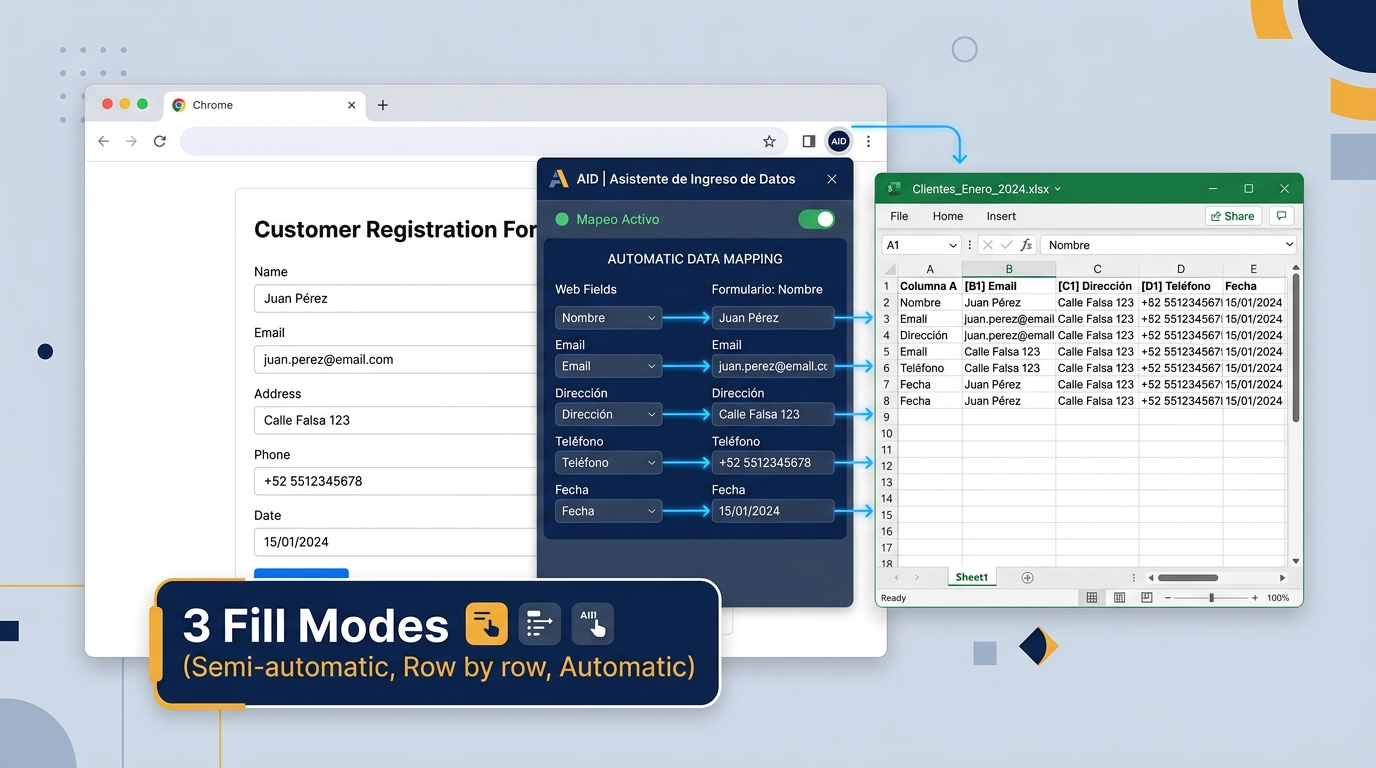
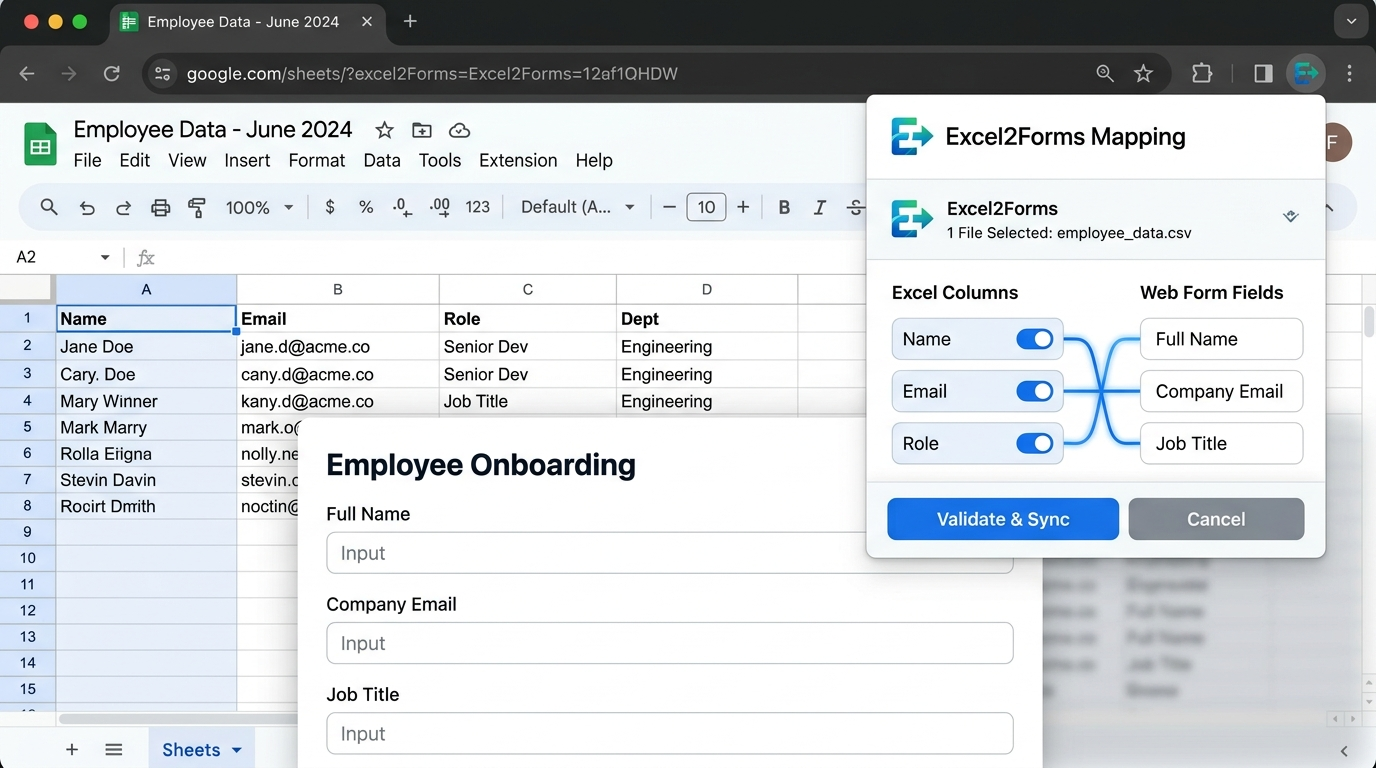
AJUSTE EXCEL

diff --git a/excel2forms.html b/excel2forms.html
@@ -4,22 +4,21 @@
     <meta charset="UTF-8">
     <meta name="viewport" content="width=device-width, initial-scale=1.0">
     <title>Llenar Formularios Web desde Excel — Extensión Chrome | Excel2Forms</title>
-    <meta name="description" content="Aprende a llenar formularios web desde Excel o CSV automáticamente. Extensión de Chrome para autollenar campos web sin copiar y pegar. 100% local y segura.">
-    <meta name="keywords" content="llenar formularios web desde excel, autollenar formulario chrome, subir datos de excel a una web, extension chrome para formularios, automatizar formularios excel">
+    <meta name="description" content="Aprende a llenar formularios web desde Excel o CSV automáticamente. Extensión de Chrome para autollenar campos web sin copiar y pegar. Procesamiento local.">
     <link rel="canonical" href="https://johnnytechtools.vercel.app/excel2forms">
     
     <!-- Open Graph -->
     <meta property="og:type" content="website">
     <meta property="og:url" content="https://johnnytechtools.vercel.app/excel2forms">
     <meta property="og:title" content="Llenar Formularios Web desde Excel — Extensión Chrome | Excel2Forms">
-    <meta property="og:description" content="Automatiza el llenado y envío de formularios web con datos de hojas de cálculo Excel o CSV. Sin programación y 100% offline.">
+    <meta property="og:description" content="Automatiza el llenado y envío de formularios web con datos de hojas de cálculo Excel o CSV. Sin programación y procesamiento en tu navegador.">
     <meta property="og:image" content="https://johnnytechtools.vercel.app/assets/og-excel2forms.png">
 
     <!-- Twitter -->
     <meta name="twitter:card" content="summary_large_image">
     <meta name="twitter:url" content="https://johnnytechtools.vercel.app/excel2forms">
     <meta name="twitter:title" content="Llenar Formularios Web desde Excel — Extensión Chrome | Excel2Forms">
-    <meta name="twitter:description" content="Automatiza el llenado y envío de formularios web con datos de hojas de cálculo Excel o CSV. Sin programación y 100% offline.">
+    <meta name="twitter:description" content="Automatiza el llenado y envío de formularios web con datos de hojas de cálculo Excel o CSV.">
     <meta name="twitter:image" content="https://johnnytechtools.vercel.app/assets/og-excel2forms.png">
 
     <!-- Schema JSON-LD SoftwareApplication -->
@@ -35,7 +34,7 @@
         "price": "0",
         "priceCurrency": "USD"
       },
-      "description": "Extensión de Google Chrome para autollenar y enviar formularios web desde archivos Excel (.xlsx) y CSV con vinculación automática de campos.",
+      "description": "Extensión de Google Chrome para autollenar y enviar formularios web desde archivos Excel (.xlsx) y CSV con vinculación de campos.",
       "url": "https://johnnytechtools.vercel.app/excel2forms"
     }
     </script>
@@ -51,23 +50,15 @@
           "name": "¿Cómo detecta Excel2Forms las casillas de un formulario web?",
           "acceptedAnswer": {
             "@type": "Answer",
-            "text": "Al pulsar 'Detectar Campos', la extensión analiza la estructura HTML de la página web activa, identificando etiquetas <input>, <select>, <textarea> y radios para que puedas asociar cada columna de tu Excel con el elemento correspondiente mediante menús desplegables."
+            "text": "Al pulsar 'Detectar Campos', la extensión analiza los elementos de entrada comunes del formulario (<input>, <select>, <textarea>) en la pestaña activa para que puedas asociar cada columna de tu archivo con la casilla correspondiente."
           }
         },
         {
           "@type": "Question",
-          "name": "¿Qué formatos de archivo soporta?",
+          "name": "¿Funciona con formularios de múltiples pasos o páginas?",
           "acceptedAnswer": {
             "@type": "Answer",
-            "text": "Excel2Forms es compatible con archivos de hojas de cálculo modernas de Microsoft Excel (.xlsx) y archivos delimitados por comas (.csv)."
-          }
-        },
-        {
-          "@type": "Question",
-          "name": "¿Qué ocurre si un registro falla durante el envío automático?",
-          "acceptedAnswer": {
-            "@type": "Answer",
-            "text": "La extensión registra el estado de cada fila enviada. Al finalizar el lote, puedes descargar un reporte detallado en CSV que indica cuáles registros se enviaron con éxito y cuáles tuvieron alguna advertencia o error."
+            "text": "Esta versión está optimizada para formularios web directos de una sola página. No cubre bien flujos de varios pasos con validaciones intermedias o recargas de página complejas; estamos trabajando en una solución para esos casos."
           }
         },
         {
@@ -75,7 +66,15 @@
           "name": "¿Mis datos se guardan o envían a algún servidor?",
           "acceptedAnswer": {
             "@type": "Answer",
-            "text": "No. Excel2Forms procesa tus archivos exclusivamente en la memoria local de tu navegador. Ninguna fila, dato personal o valor de tu hoja de cálculo sale de tu equipo."
+            "text": "Excel2Forms lee tu archivo en tu navegador y no lo envía a nuestros servidores ni a terceros. Los datos solo salen hacia el formulario web que tú elijas completar, igual que si los escribieras a mano. Ese sitio los trata según su propia política de privacidad."
+          }
+        },
+        {
+          "@type": "Question",
+          "name": "¿Qué formatos de archivo soporta?",
+          "acceptedAnswer": {
+            "@type": "Answer",
+            "text": "Excel2Forms es compatible con hojas de cálculo de Microsoft Excel (.xlsx) y archivos delimitados por comas (.csv)."
           }
         }
       ]
@@ -113,7 +112,7 @@
             </nav>
 
             <div class="flex items-center gap-3">
-                <a href="https://chromewebstore.google.com/detail/excel2forms-web-form-auto/akpoionmboejidpnolfehdjfeopmibla?authuser=4&hl=es-419" target="_blank" rel="noopener noreferrer" class="bg-blue-600 hover:bg-blue-700 text-white text-xs md:text-sm font-semibold px-4 py-2 rounded-lg shadow-sm transition-all" onclick="if(window.va) va('event', { name: 'cta_e2f_header_cws' });">
+                <a href="https://chromewebstore.google.com/detail/excel2forms-web-form-auto/akpoionmboejidpnolfehdjfeopmibla" target="_blank" rel="noopener noreferrer" class="bg-blue-600 hover:bg-blue-700 text-white text-xs md:text-sm font-semibold px-4 py-2 rounded-lg shadow-sm transition-all" onclick="if(window.va) va('event', { name: 'cta_e2f_header_cws' });">
                     Añadir a Chrome
                 </a>
             </div>
@@ -131,17 +130,16 @@
 
             <!-- H1 Principal enfocado en Search Intent -->
             <h1 class="text-3xl sm:text-5xl font-extrabold tracking-tight text-slate-900 mb-6 leading-tight max-w-4xl mx-auto">
-                Cómo llenar formularios web desde Excel de forma automática y segura
+                Cómo llenar formularios web desde Excel de forma automática y sencilla
             </h1>
 
             <p class="text-lg md:text-xl text-slate-600 max-w-3xl mx-auto mb-8 leading-relaxed">
-                Si necesitas <strong>subir datos de Excel a una web</strong> o autollenar formularios repetitivos fila por fila, <strong>Excel2Forms</strong> se integra en tu navegador Google Chrome para mapear columnas y automatizar los envíos sin escribir una sola línea de código.
+                Si necesitas <strong>subir datos de Excel a una web</strong> o autollenar formularios repetitivos, <strong>Excel2Forms</strong> se integra en Google Chrome para vincular columnas con las casillas del formulario y automatizar los envíos directamente en tu navegador.
             </p>
 
             <div class="flex flex-col sm:flex-row gap-4 justify-center items-center">
-                <a href="https://chromewebstore.google.com/detail/excel2forms-web-form-auto/akpoionmboejidpnolfehdjfeopmibla?authuser=4&hl=es-419" target="_blank" rel="noopener noreferrer" class="w-full sm:w-auto bg-blue-600 hover:bg-blue-700 text-white font-bold text-base md:text-lg px-8 py-4 rounded-xl shadow-lg transition-all transform hover:-translate-y-0.5 text-center flex items-center justify-center gap-2" onclick="if(window.va) va('event', { name: 'cta_hero_cws_excel2forms' });">
+                <a href="https://chromewebstore.google.com/detail/excel2forms-web-form-auto/akpoionmboejidpnolfehdjfeopmibla" target="_blank" rel="noopener noreferrer" class="w-full sm:w-auto bg-blue-600 hover:bg-blue-700 text-white font-bold text-base md:text-lg px-8 py-4 rounded-xl shadow-lg transition-all transform hover:-translate-y-0.5 text-center flex items-center justify-center gap-2" onclick="if(window.va) va('event', { name: 'cta_hero_cws_excel2forms' });">
                     <span>Añadir a Chrome — Pruébalo gratis</span>
-                    <span class="text-xs bg-blue-500 px-2 py-0.5 rounded">Store</span>
                 </a>
                 <a href="#video-demo" class="w-full sm:w-auto bg-white border-2 border-slate-200 hover:border-red-400 text-slate-700 font-semibold text-base md:text-lg px-6 py-3.5 rounded-xl transition-colors text-center flex items-center justify-center gap-2">
                     <svg class="w-5 h-5 text-red-500" fill="currentColor" viewBox="0 0 24 24" aria-hidden="true"><path d="M23.5 6.2a3 3 0 0 0-2.1-2.1C19.5 3.5 12 3.5 12 3.5s-7.5 0-9.4.6A3 3 0 0 0 .5 6.2 31.5 31.5 0 0 0 0 12a31.5 31.5 0 0 0 .5 5.8 3 3 0 0 0 2.1 2.1c1.9.6 9.4.6 9.4.6s7.5 0 9.4-.6a3 3 0 0 0 2.1-2.1A31.5 31.5 0 0 0 24 12a31.5 31.5 0 0 0-.5-5.8zM9.5 15.6V8.4l6.3 3.6-6.3 3.6z"/></svg>
@@ -156,7 +154,23 @@
             </div>
         </section>
 
-        <!-- 2. DEMO EN VIDEO EMBEBIDA -->
+        <!-- 2. CAPTURA VISUAL REAL DEL FLUJO DE TRABAJO -->
+        <section class="max-w-4xl mx-auto px-6 py-6">
+            <div class="bg-white p-4 rounded-3xl border border-slate-200 shadow-md">
+                <img 
+                    src="/assets/og-excel2forms.png" 
+                    alt="Mapeo visual de columnas de Excel a campos de formulario web con Excel2Forms" 
+                    width="1200" 
+                    height="675" 
+                    class="w-full h-auto rounded-2xl border border-slate-100 object-cover"
+                    loading="lazy">
+                <p class="text-xs text-slate-500 text-center mt-3">
+                    Vinculación visual: asocia cada columna de tu hoja de cálculo con la casilla correspondiente en la página web abierta.
+                </p>
+            </div>
+        </section>
+
+        <!-- 3. DEMO EN VIDEO EMBEBIDA (YOUTUBE-NOCOOKIE) -->
         <section id="video-demo" class="max-w-4xl mx-auto px-6 py-12">
             <div class="text-center mb-6">
                 <span class="text-blue-600 font-semibold text-xs uppercase tracking-wider">Demostración en vivo</span>
@@ -176,7 +190,7 @@
             </div>
         </section>
 
-        <!-- 3. GUÍA PASO A PASO -->
+        <!-- 4. GUÍA PASO A PASO -->
         <section class="bg-white border-y border-slate-200 py-16">
             <div class="max-w-5xl mx-auto px-6">
                 <div class="text-center max-w-2xl mx-auto mb-12">
@@ -191,10 +205,10 @@
                         <div class="w-10 h-10 bg-blue-600 text-white font-bold rounded-xl flex items-center justify-center mb-4 text-lg shadow-sm">1</div>
                         <h3 class="text-lg font-bold text-slate-900 mb-2">Carga tu archivo Excel o CSV</h3>
                         <p class="text-slate-600 text-sm leading-relaxed mb-4">
-                            Abre la ventana de la extensión y selecciona tu hoja de cálculo (.xlsx o .csv). Excel2Forms lee al instante los encabezados de tus columnas respetando caracteres especiales y acentos.
+                            Abre la ventana de la extensión y selecciona tu hoja de cálculo (.xlsx o .csv). Excel2Forms lee los encabezados de tus columnas en tu navegador.
                         </p>
                         <span class="text-xs font-semibold text-slate-500 bg-white px-2 py-1 rounded border border-slate-200">
-                            Procesamiento 100% en tu memoria
+                            Procesamiento local en tu navegador
                         </span>
                     </div>
 
@@ -213,73 +227,83 @@
                     <!-- Paso 3 -->
                     <div class="bg-slate-50 p-8 rounded-2xl border border-slate-200 relative">
                         <div class="w-10 h-10 bg-blue-600 text-white font-bold rounded-xl flex items-center justify-center mb-4 text-lg shadow-sm">3</div>
-                        <h3 class="text-lg font-bold text-slate-900 mb-2">Ejecuta el autollenado y descarga el reporte</h3>
+                        <h3 class="text-lg font-bold text-slate-900 mb-2">Ejecuta y descarga el reporte</h3>
                         <p class="text-slate-600 text-sm leading-relaxed mb-4">
-                            Selecciona si deseas avance automático o confirmación paso a paso. La extensión rellena y envía cada registro. Al culminar, puedes descargar un archivo CSV que certifica los resultados.
+                            Selecciona si deseas avance automático o confirmación paso a paso. La extensión completa los campos y envía el formulario. Al finalizar, puedes descargar un reporte CSV con el resultado de cada registro.
                         </p>
                         <span class="text-xs font-semibold text-slate-500 bg-white px-2 py-1 rounded border border-slate-200">
-                            Trazabilidad y control total
+                            Puedes revisar cada registro
                         </span>
                     </div>
                 </div>
             </div>
         </section>
 
-        <!-- 4. DIFERENCIADOR CLAVE FRENTE A AID -->
-        <section class="max-w-5xl mx-auto px-6 py-16">
-            <div class="bg-slate-900 text-white rounded-3xl p-8 md:p-12 shadow-xl">
-                <div class="max-w-3xl">
-                    <span class="text-blue-400 font-bold text-xs uppercase tracking-wider">Claridad de Solución</span>
-                    <h2 class="text-2xl md:text-3xl font-extrabold mt-1 mb-4">¿Cuándo elegir Excel2Forms frente a AID?</h2>
-                    <p class="text-slate-300 text-sm md:text-base leading-relaxed mb-6">
-                        <strong>Excel2Forms</strong> es la opción indicada cuando trabajas con formularios estándar del día a día (Google Forms, encuestas web, registros de eventos, CRM sencillos o plataformas de inscripción) donde buscas un flujo ágil: cargar la hoja, mapear visualmente en un clic y dejar que el script complete y envíe el lote.
-                    </p>
-                    <p class="text-slate-300 text-sm md:text-base leading-relaxed mb-6">
-                        Si en cambio operas con sistemas cerrados institucionales, portales gubernamentales lentos o trámites donde cada registro exige validación previa humana fila por fila, revisa nuestra herramienta hermana <a href="/aid" class="text-amber-400 underline hover:text-amber-300 font-semibold">AID (Asistente de Ingreso de Datos)</a>.
-                    </p>
-                    <a href="https://chromewebstore.google.com/detail/excel2forms-web-form-auto/akpoionmboejidpnolfehdjfeopmibla?authuser=4&hl=es-419" target="_blank" rel="noopener noreferrer" class="inline-block bg-blue-600 hover:bg-blue-700 text-white font-semibold px-6 py-3 rounded-xl transition-colors text-sm">
-                        Instalar Excel2Forms en Chrome
-                    </a>
+        <!-- 5. QUÉ NO HACE (LIMITACIONES REALES PARA CONFIANZA) -->
+        <section class="max-w-4xl mx-auto px-6 py-12">
+            <div class="bg-slate-100 border border-slate-300 rounded-3xl p-8">
+                <div class="flex items-start gap-4">
+                    <div class="text-3xl text-slate-700">ℹ</div>
+                    <div>
+                        <h2 class="text-xl font-bold text-slate-900 mb-2">Alcance y limitaciones técnicas (Qué NO hace)</h2>
+                        <p class="text-slate-600 text-sm leading-relaxed mb-4">
+                            Para mantener expectativas claras y evitar malas experiencias al usar la herramienta en formularios complejos, ten en cuenta:
+                        </p>
+                        <ul class="text-xs text-slate-700 space-y-2 list-disc pl-5">
+                            <li><strong>No resuelve CAPTCHAs:</strong> Si el formulario receptor incluye Cloudflare, reCAPTCHA o validaciones antibot, la verificación humana debe completarse manualmente.</li>
+                            <li><strong>Formularios dentro de iframes externos:</strong> Por políticas de seguridad del navegador, formularios incrustados desde otros dominios pueden requerir abrirse en su pestaña original.</li>
+                            <li><strong>Recargas completas de página:</strong> Si el formulario recarga la página por completo tras cada envío sin conservar el estado, la extensión requerirá reiniciar el proceso para el siguiente registro.</li>
+                            <li><strong>Flujos de múltiples pasos con lógica condicional pesada:</strong> Formularios que cambian dinámicamente de estructura según la opción seleccionada pueden requerir supervisión manual.</li>
+                        </ul>
+                    </div>
                 </div>
             </div>
         </section>
 
-        <!-- 5. CASOS DE USO REALES -->
+        <!-- 6. CASOS DE USO REALES Y AVISO CONTRA SPAM -->
         <section class="max-w-5xl mx-auto px-6 py-12">
             <div class="text-center mb-12">
                 <span class="text-blue-600 font-semibold text-xs uppercase tracking-wider">Aplicaciones Prácticas</span>
                 <h2 class="text-3xl font-extrabold text-slate-900 mt-1 mb-3">¿Para qué tareas se utiliza Excel2Forms?</h2>
-                <p class="text-slate-600 text-sm md:text-base max-w-2xl mx-auto">Elimina la carga de trabajo manual en múltiples sectores profesionales.</p>
+                <p class="text-slate-600 text-sm md:text-base max-w-2xl mx-auto">Elimina la carga de trabajo manual en tareas administrativas cotidianas.</p>
             </div>
 
-            <div class="grid md:grid-cols-3 gap-6">
+            <div class="grid md:grid-cols-3 gap-6 mb-8">
                 <div class="bg-white p-6 rounded-2xl border border-slate-200">
                     <div class="text-3xl mb-3">🎓</div>
                     <h3 class="font-bold text-slate-900 mb-2">Inscripciones y Registros Escolares</h3>
                     <p class="text-slate-600 text-xs leading-relaxed">
-                        Carga listados de alumnos desde Excel a formularios de matrícula, encuestas curriculares o sistemas de seguimiento sin tipear cada nombre y carnet.
+                        Carga listados de alumnos desde Excel a formularios web de matrícula o encuestas escolares sin tipear cada dato manualmente.
                     </p>
                 </div>
 
                 <div class="bg-white p-6 rounded-2xl border border-slate-200">
                     <div class="text-3xl mb-3">💼</div>
-                    <h3 class="font-bold text-slate-900 mb-2">Administración y Facturación</h3>
+                    <h3 class="font-bold text-slate-900 mb-2">Administración y Proveedores</h3>
                     <p class="text-slate-600 text-xs leading-relaxed">
-                        Migra listas de proveedores, órdenes de compra o detalles de recibos a portales internos que no ofrecen botón de importación nativo.
+                        Pasa registros de proveedores, órdenes simples o solicitudes internas a portales web que no disponen de importación masiva.
                     </p>
                 </div>
 
                 <div class="bg-white p-6 rounded-2xl border border-slate-200">
-                    <div class="text-3xl mb-3">📊</div>
-                    <h3 class="font-bold text-slate-900 mb-2">Equipos de Marketing y Ventas</h3>
+                    <div class="text-3xl mb-3">📋</div>
+                    <h3 class="font-bold text-slate-900 mb-2">Eventos y Formularios Web</h3>
                     <p class="text-slate-600 text-xs leading-relaxed">
-                        Pasa leads y prospectos recolectados en eventos o campañas desde archivos CSV a plataformas web de prospección y formularios de suscripción.
+                        Transfiere listas de confirmación de asistentes a formularios web de eventos y acreditaciones de forma ordenada.
                     </p>
                 </div>
             </div>
+
+            <!-- Aviso de uso responsable contra spam -->
+            <div class="bg-blue-50 border border-blue-200 rounded-2xl p-4 text-center text-xs text-blue-950">
+                <p class="font-semibold mb-1">🛡 Compromiso de Uso Responsable</p>
+                <p class="text-blue-800">
+                    No uses Excel2Forms para enviar spam, respuestas falsas ni para violar los términos de servicio de los sitios web donde lo apliques.
+                </p>
+            </div>
         </section>
 
-        <!-- 6. FAQ DE EXCEL2FORMS -->
+        <!-- 7. FAQ DE EXCEL2FORMS -->
         <section class="max-w-4xl mx-auto px-6 py-16 border-t border-slate-200">
             <div class="text-center mb-12">
                 <h2 class="text-3xl font-extrabold text-slate-900 mb-2">Preguntas Frecuentes sobre Excel2Forms</h2>
@@ -293,7 +317,7 @@
                         <span class="text-blue-600 group-open:rotate-180 transition-transform">▼</span>
                     </summary>
                     <p class="mt-4 text-slate-600 text-sm leading-relaxed">
-                        La extensión escanea los elementos de entrada del DOM (inputs de texto, selectores, radio buttons y checkboxes) presentes en la pestaña abierta. Luego te muestra una lista clara para asociar cada columna de tu Excel con el campo deseado.
+                        La extensión escanea los elementos de entrada comunes del DOM (inputs de texto, selectores, radio buttons y casillas) presentes en la pestaña abierta para que vincules cada columna de tu Excel con el campo correspondiente.
                     </p>
                 </details>
 
@@ -303,7 +327,7 @@
                         <summary-icon class="text-blue-600 group-open:rotate-180 transition-transform">▼</summary-icon>
                     </summary>
                     <p class="mt-4 text-slate-600 text-sm leading-relaxed">
-                        Actualmente está optimizada para formularios web de una sola página o envíos continuos. Para flujos de pasos complejos con validaciones intermedias, se recomienda el modo paso a paso o evaluar nuestra solución complementaria AID.
+                        Esta versión no cubre bien flujos de varios pasos con validaciones intermedias o recargas de página complejas; estamos trabajando en una solución para esos casos.
                     </p>
                 </details>
 
@@ -313,7 +337,7 @@
                         <summary-icon class="text-blue-600 group-open:rotate-180 transition-transform">▼</summary-icon>
                     </summary>
                     <p class="mt-4 text-slate-600 text-sm leading-relaxed">
-                        Completamente seguros. La extensión opera bajo el principio de privacidad local estricta: lee el archivo en tu memoria RAM local y lo inyecta directamente en la página web que tienes abierta. Ningún dato viaja a servidores externos.
+                        Excel2Forms lee tu archivo en tu navegador y no lo envía a nuestros servidores ni a terceros. Los datos solo salen hacia el formulario web que tú elijas completar, igual que si los escribieras a mano. Ese sitio los trata según su propia política de privacidad.
                     </p>
                 </details>
 
@@ -329,14 +353,14 @@
             </div>
         </section>
 
-        <!-- 7. OTRAS HERRAMIENTAS (INTERNAL LINKING) -->
+        <!-- 8. OTRAS HERRAMIENTAS (INTERNAL LINKING) -->
         <section class="max-w-5xl mx-auto px-6 py-12 border-t border-slate-200">
             <h2 class="text-xl font-bold text-slate-900 mb-6 text-center">Otras herramientas de la suite</h2>
             <div class="max-w-md mx-auto bg-white p-6 rounded-2xl border border-slate-200 shadow-sm flex items-center justify-between">
                 <div>
                     <span class="text-amber-600 font-bold text-xs uppercase tracking-wider">Próximo lanzamiento</span>
                     <h3 class="text-lg font-bold text-slate-900">AID (Asistente de Ingreso de Datos)</h3>
-                    <p class="text-xs text-slate-500 mt-1">Automatización controlada con 3 modos de llenado para portales complejos.</p>
+                    <p class="text-xs text-slate-500 mt-1">Automatización con 3 modos de llenado para revisión paso a paso.</p>
                 </div>
                 <a href="/aid" class="bg-amber-500 hover:bg-amber-600 text-white font-semibold text-xs px-4 py-2.5 rounded-lg transition-colors flex-shrink-0 ml-4">
                     Ver AID →
@@ -344,7 +368,7 @@
             </div>
         </section>
 
-        <!-- 8. CAPTURA DE CORREOS / CONTACTO -->
+        <!-- 9. CAPTURA DE CORREOS & SECCIÓN CONTACTO (#contacto) -->
         <section id="contacto" class="max-w-3xl mx-auto px-6 py-16 border-t border-slate-200 text-center">
             <h2 class="text-2xl font-bold text-slate-900 mb-2">Recibe avisos cuando salgan nuevas funciones y el plan Pro</h2>
             <p class="text-slate-600 text-sm mb-8">Déjanos tu correo o contáctanos directamente para consultas sobre Excel2Forms.</p>
@@ -353,9 +377,12 @@
                 <iframe src="https://tally.so/r/xXeD5E?hideTitle=1" width="100%" height="1000" frameborder="0" marginheight="0" marginwidth="0" title="Contacto Excel2Forms" style="margin-top:-120px;border:0"></iframe>
             </div>
 
-            <a href="https://wa.me/50586443987?text=Hola%2C%20tengo%20una%20consulta%20sobre%20Excel2Forms" target="_blank" rel="noopener noreferrer" class="inline-flex items-center gap-2 bg-[#25D366] hover:bg-[#1da851] text-white font-semibold px-6 py-3 rounded-xl transition-colors text-sm" onclick="if(window.va) va('event', { name: 'e2f_click_whatsapp' });">
-                <span>Escríbenos por WhatsApp sobre Excel2Forms</span>
-            </a>
+            <div class="pt-4">
+                <a href="https://wa.me/50586443987?text=Hola%2C%20tengo%20una%20consulta%20sobre%20Excel2Forms" target="_blank" rel="noopener noreferrer" class="inline-flex items-center gap-2 bg-[#25D366] hover:bg-[#1da851] text-white font-semibold px-6 py-3 rounded-xl transition-colors text-sm" onclick="if(window.va) va('event', { name: 'e2f_click_whatsapp' });">
+                    <svg class="w-5 h-5" fill="currentColor" viewBox="0 0 24 24" aria-hidden="true"><path d="M17.472 14.382c-.297-.149-1.758-.867-2.03-.967-.273-.099-.471-.148-.67.15-.197.297-.767.966-.94 1.164-.173.199-.347.223-.644.075-.297-.15-1.255-.463-2.39-1.475-.883-.788-1.48-1.761-1.653-2.059-.173-.297-.018-.458.13-.606.134-.133.298-.347.446-.52.149-.174.198-.298.298-.497.099-.198.05-.371-.025-.52-.075-.149-.669-1.612-.916-2.207-.242-.579-.487-.5-.669-.51-.173-.008-.371-.01-.57-.01-.198 0-.52.074-.792.372-.272.297-1.04 1.016-1.04 2.479 0 1.462 1.065 2.875 1.213 3.074.149.198 2.096 3.2 5.077 4.487.709.306 1.262.489 1.694.625.712.227 1.36.195 1.871.118.571-.085 1.758-.719 2.006-1.413.248-.694.248-1.289.173-1.413-.074-.124-.272-.198-.57-.347m-5.421 7.403h-.004a9.87 9.87 0 01-5.031-1.378l-.361-.214-3.741.982.998-3.648-.235-.374a9.86 9.86 0 01-1.51-5.26c.001-5.45 4.436-9.884 9.888-9.884 2.64 0 5.122 1.03 6.988 2.898a9.825 9.825 0 012.893 6.994c-.003 5.45-4.437 9.884-9.885 9.884m8.413-18.297A11.815 11.815 0 0012.05 0C5.495 0 .16 5.335.157 11.892c0 2.096.547 4.142 1.588 5.945L.057 24l6.305-1.654a11.882 11.882 0 005.683 1.448h.005c6.554 0 11.89-5.335 11.893-11.893a11.821 11.821 0 00-3.48-8.413z"/></svg>
+                    <span>Escríbenos por WhatsApp sobre Excel2Forms</span>
+                </a>
+            </div>
         </section>
     </main>
 

diff --git a/index.html b/index.html
@@ -261,7 +261,7 @@
                         <a href="/excel2forms" class="block w-full bg-blue-600 hover:bg-blue-700 text-white font-semibold py-3 rounded-xl transition-colors text-center shadow-sm">
                             Conocer más sobre Excel2Forms →
                         </a>
-                        <a href="https://chromewebstore.google.com/detail/excel2forms-web-form-auto/akpoionmboejidpnolfehdjfeopmibla?authuser=4&hl=es-419" target="_blank" rel="noopener noreferrer" class="block w-full bg-slate-900 hover:bg-slate-800 text-white font-medium py-2.5 rounded-xl transition-colors text-center text-sm" onclick="if(window.va) va('event', { name: 'hub_click_cws_e2f' });">
+                        <a href="https://chromewebstore.google.com/detail/excel2forms-web-form-auto/akpoionmboejidpnolfehdjfeopmibla" target="_blank" rel="noopener noreferrer" class="block w-full bg-slate-900 hover:bg-slate-800 text-white font-medium py-2.5 rounded-xl transition-colors text-center text-sm" onclick="if(window.va) va('event', { name: 'hub_click_cws_e2f' });">
                             Instalar desde Chrome Web Store
                         </a>
                     </div>
